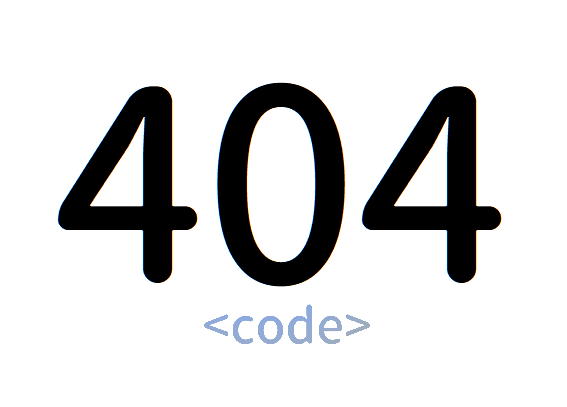
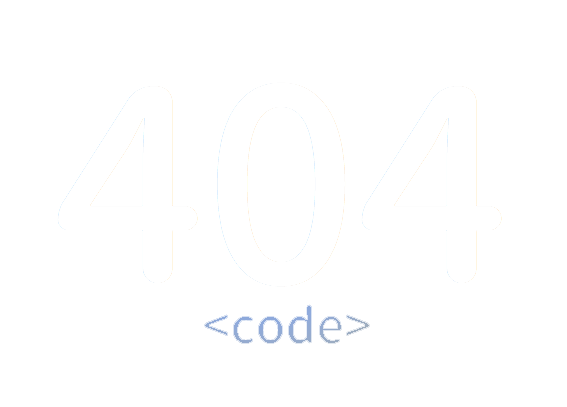
-

Changed region(s): [[0.0899, 0.1769, 0.8995, 0.7076], [0.3598, 0.7666, 0.6596, 0.855]]

diff --git a/index.html b/index.html
@@ -8,18 +8,28 @@
     <link rel="icon" href="assets/code.ico">
 </head>
 <body oncontextmenu="return false" bgcolor="03111e" style="overflow:scroll;overflow-x:hidden">
-    <marquee><img src="assets/ourcode.png" height="121"></marquee>
+    <a href="web/all"><marquee><img src="assets/ourcode.png" height="121"></marquee></a>
     <br><br><br><br><br>
     <center>
     <img src="assets/code.png" height="600px">
     </center>
     <font color="03111e" size="196px">air</font>
-    <a href="web/VBS/vbs.html"><img src="assets/image_10.png" height="121"></a>
+    <a href="web/VBS"><img src="assets/image_10.png" height="121"></a>
     <br><font color="03111e" size="196px">air</font><font color="white" size="6px">VBScript是Visual Basic Script的简称，</font>
     <br><font color="03111e" size="196px">air</font><font color="white" size="6px">有时也被缩写为VBS。</font>
     <br><font color="03111e" size="196px">air</font><font color="white" size="6px">VBScript是微软开发的一种脚本语言，</font>
     <br><font color="03111e" size="196px">air</font><font color="white" size="6px">可以看作是VB语言的简化版，</font>
     <br><font color="03111e" size="196px">air</font><font color="white" size="6px">与Visual Basic for Applications的关系也非常密切。</font>>
     <br><font color="03111e" size="196px">air</font><font color="white" size="6px">它具有原语言容易学习的特性。</font>
+    <br><br><br><br><br><br>
+    <font color="03111e" size="196px">air</font>
+    <a href="web/html"><img src="assets/image_2.png" height="200"></a>
+    <br><font color="03111e" size="196px">air</font><font color="white" size="6px">HTML是写网页不可缺的语言，</font>
+    <br><font color="03111e" size="196px">air</font><font color="white" size="6px">这个网页就是使用Html制作。</font>
+    <br><font color="03111e" size="196px">air</font><font color="white" size="6px">html基本不会报错，对新手很友好。</font>
+    <br><font color="03111e" size="196px">air</font><font color="white" size="6px">html可以配合css和js使用，制作进阶功能。</font>
+    <br><br><br><br><br><br>
+    <font color="03111e" size="196px">air</font>
+    <a href="web/python"><img src="assets/image_1.png" height="121"></a>
 </body>
 </html>

diff --git a/404.html b/404.html
@@ -1,3 +1,8 @@
-<head><title>404</title></head>
+<head>
+    <link rel="icon" href="assets/code.ico">
+    <title>404</title></head>
 <br><br><br><br><br><br><br><br><br><br><br><br><br>
-<center><h1>404 Not found</h1></center>
+<body oncontextmenu="return false" bgcolor="03111e" tyle="overflow:scroll;overflow-x:hidden">
+    <br><br><br><br><br><br><br><br><br><br><br><br><br>
+    <center><img src="assets/404.png"></center>
+</body>

diff --git a/web/VBS/index.html b/web/VBS/index.html
@@ -1,4 +1,6 @@
-<head><title>xchuang code</title><meta charset="utf-8"></head>
+<head><title>xchuang code</title>
+    <link rel="icon" href="../../assets/code.ico">
+    <meta charset="utf-8"></head>
 <body>
 <br><br><br><br><br><br><br><br><br><br><br><br><br><br><br><br>
 <center><h1>我们正在制作此网页，请之后再来。。。</h1></center>
